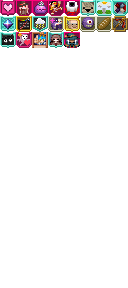
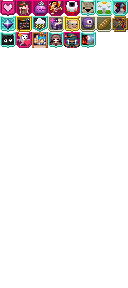
update 0.6.9.7-RC

Changed region(s): [[0.625, 0.0938, 0.75, 0.1875]]

diff --git a/core/src/main/java/com/shatteredpixel/shatteredpixeldungeon/ui/changelist/mlpd/vM0_6_6_Changes.java b/core/src/main/java/com/shatteredpixel/shatteredpixeldungeon/ui/changelist/mlpd/vM0_6_6_Changes.java
@@ -19,6 +19,7 @@ import com.shatteredpixel.shatteredpixeldungeon.sprites.ColdRatSprite;
 import com.shatteredpixel.shatteredpixeldungeon.sprites.CrivusFruitsSprite;
 import com.shatteredpixel.shatteredpixeldungeon.sprites.DM300AttackSprite;
 import com.shatteredpixel.shatteredpixeldungeon.sprites.DM720Sprite;
+import com.shatteredpixel.shatteredpixeldungeon.sprites.DeathRongSprite;
 import com.shatteredpixel.shatteredpixeldungeon.sprites.DiedMonkLoaderSprite;
 import com.shatteredpixel.shatteredpixeldungeon.sprites.DimandKingSprite;
 import com.shatteredpixel.shatteredpixeldungeon.sprites.DrTerrorSprite;
@@ -121,7 +122,7 @@ public class vM0_6_6_Changes {
     public static void add_SC4_Changes( ArrayList<ChangeInfo> changeInfos ) {
 
 
-        ChangeInfo changes = new ChangeInfo("v0.6.9.7", true, "");
+        ChangeInfo changes = new ChangeInfo("v0.6.9.7-RC", true, "");
         changes.hardlight(Window.TITLE_COLOR);
         changeInfos.add(changes);
 
@@ -129,19 +130,25 @@ public class vM0_6_6_Changes {
         changes.hardlight(Window.TITLE_COLOR);
         changeInfos.add(changes);
 
+        changes.addButton(new ChangeButton(PasswordBadgeBanner.image(PaswordBadges.Badge.HELLORWORLD.image), ("新徽章：终末赞歌"),
+                ("完成孤城挑战即可获得。")));
+
         changes.addButton( new ChangeButton(new ItemSprite(ItemSpriteSheet.GREATAXE,
                 new ItemSprite.Glowing( 0x00FFFF )), "新稀有附魔：鬼磷",
-                "这个附魔会使磷火从武器中喷薄而出，能够使用点燃敌人并对正在燃烧的敌人造成中毒的额外伤害。"));
+                "这个附魔会使磷火从武器中喷薄而出，能够使用点燃敌人并对正在燃烧的敌人造成中毒的额外伤害。\n\n奥术戒加成效果：提升鬼磷几率"));
 
         changes.addButton( new ChangeButton(new ItemSprite(ItemSpriteSheet.GREATSWORD,
                 new ItemSprite.Glowing( 0xcc7770 )), "新常规附魔：爆破",
-                "这个附魔会让使用者陷入癫狂，能使爆炸的能量从武器中喷薄而出，能够使敌人目标处受到一次范围伤害亦或者给造成敌人短暂的残废效果。"));
+                "这个附魔会让使用者陷入癫狂，能使爆炸的能量从武器中喷薄而出，能够使敌人目标处受到一次范围伤害亦或者给造成敌人短暂的残废效果。\n\n奥术戒加成效果：提升伤害"));
 
         changes.addButton(new ChangeButton(new GunHuntsmanSprite(), ("新敌人：血月兽型猎人"),
                 ("支离破碎3区特供，主要攻击手段是远程攻击。")));
 
         changes.addButton(new ChangeButton(new ItemSprite(ItemSpriteSheet.WATERSOUL), ("水灵改动"),
                 ("污泥浊水的水灵药剂的治疗不再受药水异症影响，也不会中毒，且有效时间变为250回合。但合成表有所改变")));
+
+        changes.addButton(new ChangeButton(new DeathRongSprite(), ("新商人：卡戎"),
+                ("她发现冥河渡人的生意越来越难做，所以现在在万圣大厅开起了商店，不久她就赚的盆满钵满。")));
 
         changes.addButton(new ChangeButton(new DrTerrorSprite(), ("新敌人：恐怖博士"),
                 ("曾经的名人，而如今沦落到如此田地。物是人非，指的就是这个了吧。")));
@@ -184,7 +191,9 @@ public class vM0_6_6_Changes {
                 "修复了以下Bug:\n\n" +
                         "1.修复了魅魔女王闪退的问题。\n" +
                         "2.修复了提灯的异常崩溃问题\n" +
-                        "3.修复了炼狱精英的处理问题"
+                        "3.修复了炼狱精英的处理问题\n" +
+                        "4.修复了豺狼炼药长老的闪退问题\n" +
+                        "5.修复了鱼与飞镖的故事飞镖异常问题"
         ));
 
         changes.addButton( new ChangeButton(new BuffIcon(BuffIndicator.CORRUPT, true), ("基因突变"),

diff --git a/core/src/main/java/com/shatteredpixel/shatteredpixeldungeon/levels/rooms/special/MissileFishRoom.java b/core/src/main/java/com/shatteredpixel/shatteredpixeldungeon/levels/rooms/special/MissileFishRoom.java
@@ -104,10 +104,37 @@ public class MissileFishRoom extends SpecialRoom {
             }
         }
 
+        int may = Random.NormalIntRange(1,11);
+
         ArrayList<Item> mis = new ArrayList<>();
-        mis.add(idToTippedDart(Random.NormalIntRange(1,11)));
-        for (int i=0; i < Random.NormalIntRange(2,3); i++) {
+        mis.add(idToTippedDart(may));
+        for (int i=0; i < 1; i++) {
             for (Item item : mis) {
+                int Lpos;
+                do {
+                    Lpos = level.pointToCell(random(1));
+                } while (level.map[Lpos] != EMPTY_SP || level.heaps.get(Lpos) != null);
+                Heap h = level.drop(item, Lpos);
+                h.type = Heap.Type.HEAP;
+            }
+        }
+
+        ArrayList<Item> mis2 = new ArrayList<>();
+        mis2.add(idToTippedDart(may));
+        for (int i=0; i < 1; i++) {
+            for (Item item : mis2) {
+                int Lpos;
+                do {
+                    Lpos = level.pointToCell(random(1));
+                } while (level.map[Lpos] != EMPTY_SP || level.heaps.get(Lpos) != null);
+                Heap h = level.drop(item, Lpos);
+                h.type = Heap.Type.HEAP;
+            }
+        }
+        ArrayList<Item> mis3 = new ArrayList<>();
+        mis3.add(idToTippedDart(may));
+        for (int i=0; i < 1; i++) {
+            for (Item item : mis3) {
                 int Lpos;
                 do {
                     Lpos = level.pointToCell(random(1));

diff --git a/core/src/main/java/com/shatteredpixel/shatteredpixeldungeon/levels/rooms/special/NxhyShopRoom.java b/core/src/main/java/com/shatteredpixel/shatteredpixeldungeon/levels/rooms/special/NxhyShopRoom.java
@@ -9,6 +9,7 @@ import com.shatteredpixel.shatteredpixeldungeon.Challenges;
 import com.shatteredpixel.shatteredpixeldungeon.Dungeon;
 import com.shatteredpixel.shatteredpixeldungeon.actors.hero.Belongings;
 import com.shatteredpixel.shatteredpixeldungeon.actors.mobs.Mob;
+import com.shatteredpixel.shatteredpixeldungeon.actors.mobs.npcs.DeathRongShop;
 import com.shatteredpixel.shatteredpixeldungeon.actors.mobs.npcs.Nxhy;
 import com.shatteredpixel.shatteredpixeldungeon.items.Generator;
 import com.shatteredpixel.shatteredpixeldungeon.items.Heap;
@@ -79,9 +80,18 @@ public class NxhyShopRoom extends SpecialRoom {
 
     protected void placeShopkeeper(Level level) {
         int pos = level.pointToCell(center());
-        Mob nxhy = new Nxhy();
-        nxhy.pos = pos;
-        level.mobs.add(nxhy);
+
+        if(Dungeon.depth<26){
+            Mob nxhy = new Nxhy();
+            nxhy.pos = pos;
+            level.mobs.add(nxhy);
+        } else {
+            Mob d = new DeathRongShop();
+            d.pos = pos;
+            level.mobs.add(d);
+        }
+
+
     }
 
     protected void placeItems(Level level) {

diff --git a/core/src/main/java/com/shatteredpixel/shatteredpixeldungeon/actors/mobs/npcs/DeathRongShop.java b/core/src/main/java/com/shatteredpixel/shatteredpixeldungeon/actors/mobs/npcs/DeathRongShop.java
@@ -1,0 +1,35 @@
+package com.shatteredpixel.shatteredpixeldungeon.actors.mobs.npcs;
+
+import com.shatteredpixel.shatteredpixeldungeon.Dungeon;
+import com.shatteredpixel.shatteredpixeldungeon.actors.Char;
+import com.shatteredpixel.shatteredpixeldungeon.journal.Notes;
+import com.shatteredpixel.shatteredpixeldungeon.sprites.DeathRongSprite;
+
+public class DeathRongShop extends Shopkeeper {
+
+    {
+        spriteClass = DeathRongSprite.class;
+        properties.add(Property.BOSS);
+        properties.add(Property.IMMOVABLE);
+    }
+
+    @Override
+    protected boolean act() {
+
+        if (Dungeon.level.heroFOV[pos]){
+            Notes.add(Notes.Landmark.SHOP);
+        }
+        throwItem();
+
+        sprite.turnTo( pos, Dungeon.hero.pos );
+        spend( TICK );
+        return true;
+    }
+
+    @Override
+    public int defenseSkill( Char enemy ) {
+        return 0;
+    }
+
+}
+

diff --git a/core/src/main/java/com/shatteredpixel/shatteredpixeldungeon/levels/RegularLevel.java b/core/src/main/java/com/shatteredpixel/shatteredpixeldungeon/levels/RegularLevel.java
@@ -272,7 +272,7 @@ public abstract class RegularLevel extends Level {
 		}
 
 		//20%
-		if (Dungeon.NxhyshopOnLevel() && branch == 0 && Random.Int(0,100) < 20) {
+		if (Dungeon.NxhyshopOnLevel() && branch == 0 && Random.Int(0,100) < 20 || depth == 28) {
 			initRooms.add(new NxhyShopRoom());
 		}
 
@@ -319,7 +319,9 @@ public abstract class RegularLevel extends Level {
 			initRooms.add(new CoinRoom());
 		} else if(Dungeon.depth<26 && Random.Int(10) == 1) {
 			initRooms.add(new EyeRoom());
-		} else if(Dungeon.depth<26 && Random.Int(30) == 1 && (Dungeon.isChallenged(DHXD) || Statistics.lanterfireactive )){
+		}
+
+		if(Dungeon.depth<26 && Random.Int(30) == 1 && (Dungeon.isChallenged(DHXD) || Statistics.lanterfireactive )){
 			initRooms.add(new OilWellRoom());
 		}
 

diff --git a/core/src/main/java/com/shatteredpixel/shatteredpixeldungeon/items/bombs/Bomb.java b/core/src/main/java/com/shatteredpixel/shatteredpixeldungeon/items/bombs/Bomb.java
@@ -22,6 +22,7 @@
 package com.shatteredpixel.shatteredpixeldungeon.items.bombs;
 
 import static com.shatteredpixel.shatteredpixeldungeon.Dungeon.hero;
+import static com.shatteredpixel.shatteredpixeldungeon.items.wands.Wand.procChanceMultiplier;
 
 import com.shatteredpixel.shatteredpixeldungeon.Assets;
 import com.shatteredpixel.shatteredpixeldungeon.Badges;
@@ -270,7 +271,7 @@ public class Bomb extends Item {
 
 
 				if (ch.pos != cell){
-					dmg = Math.round(dmg*0.67f);
+					dmg = (int) (Math.round(dmg*0.67f) * procChanceMultiplier(ch));
 				}
 
 				dmg -= ch.drRoll();

diff --git a/core/src/main/java/com/shatteredpixel/shatteredpixeldungeon/items/weapon/enchantments/Crushing.java b/core/src/main/java/com/shatteredpixel/shatteredpixeldungeon/items/weapon/enchantments/Crushing.java
@@ -28,7 +28,7 @@ public class Crushing extends Weapon.Enchantment {
             if (Random.Int( 2 ) == 0) {
                 Buff.prolong( defender, Cripple.class, Random.Float( 1f, 1f + level/2f ) );
             }
-            defender.damage( Random.Int( 1, level + 2 ), this );
+            defender.damage( Random.Int((int) (1 * procChanceMultiplier(attacker)), (int) (level + 2 * 1 * procChanceMultiplier(attacker))), this );
 
             defender.sprite.emitter().burst(BlastParticle.FACTORY, 30 );
             defender.sprite.emitter().burst(SmokeParticle.FACTORY, 4 );

diff --git a/core/src/main/java/com/shatteredpixel/shatteredpixeldungeon/PaswordBadges.java b/core/src/main/java/com/shatteredpixel/shatteredpixeldungeon/PaswordBadges.java
@@ -66,6 +66,10 @@ public class PaswordBadges {
         displayBadge( Badge.GOOD_BLUE);
     }
 
+    public static void NightOrHell() {
+        displayBadge( Badge.HELLORWORLD);
+    }
+
 
     public enum Badge {
 
@@ -85,7 +89,9 @@ public class PaswordBadges {
         EXSG(14),
         NIGHT_CAT(16),
         ZQJ_GHOST(17),
-        GOOD_BLUE(18);
+        GOOD_BLUE(18),
+
+        HELLORWORLD(21);
 
 
 

diff --git a/core/src/main/java/com/shatteredpixel/shatteredpixeldungeon/scenes/PassWordBadgesScene.java b/core/src/main/java/com/shatteredpixel/shatteredpixeldungeon/scenes/PassWordBadgesScene.java
@@ -57,7 +57,7 @@ public class PassWordBadgesScene extends PixelScene {
 
         List<PaswordBadges.Badge> badges = PaswordBadges.filtered( true );
 
-        int blankBadges = 10;
+        int blankBadges = 1;
         blankBadges -= badges.size();
         if (badges.contains(Badges.Badge.ALL_ITEMS_IDENTIFIED))	blankBadges -= 6;
         if (badges.contains(Badges.Badge.YASD)) 				blankBadges -= 5;

diff --git a/core/src/main/java/com/shatteredpixel/shatteredpixeldungeon/actors/mobs/GnollShiled.java b/core/src/main/java/com/shatteredpixel/shatteredpixeldungeon/actors/mobs/GnollShiled.java
@@ -105,7 +105,7 @@ public class GnollShiled extends Gnoll {
     protected boolean getCloser(int target) {
         this.combo = 0;
         if (this.state != this.HUNTING) {
-            return getCloser(target);
+            return GnollShiled.super.getCloser(target);
         }
         if (!this.enemySeen || !getFurther(target)) {
             return false;

diff --git a/core/src/main/java/com/shatteredpixel/shatteredpixeldungeon/sprites/GunHuntsmanSprite.java b/core/src/main/java/com/shatteredpixel/shatteredpixeldungeon/sprites/GunHuntsmanSprite.java
@@ -12,7 +12,7 @@ public class GunHuntsmanSprite extends MobSprite {
     public GunHuntsmanSprite() {
         super();
 
-        texture( "SRPD/Gunman.png" );
+        texture( "SRPD/gunman.png" );
         TextureFilm var1 = new TextureFilm(this.texture, 20, 16);
         Integer var2 = 2;
         Integer var3 = 1;

diff --git a/core/src/main/java/com/shatteredpixel/shatteredpixeldungeon/actors/mobs/YogReal.java b/core/src/main/java/com/shatteredpixel/shatteredpixeldungeon/actors/mobs/YogReal.java
@@ -548,6 +548,8 @@ public class YogReal extends Boss {
             PaswordBadges.NIGHT_CAT();
         }
 
+        PaswordBadges.NightOrHell();
+
         if(Dungeon.isChallenged(AQUAPHOBIA)){
             Badges.CLEARWATER();
         }
